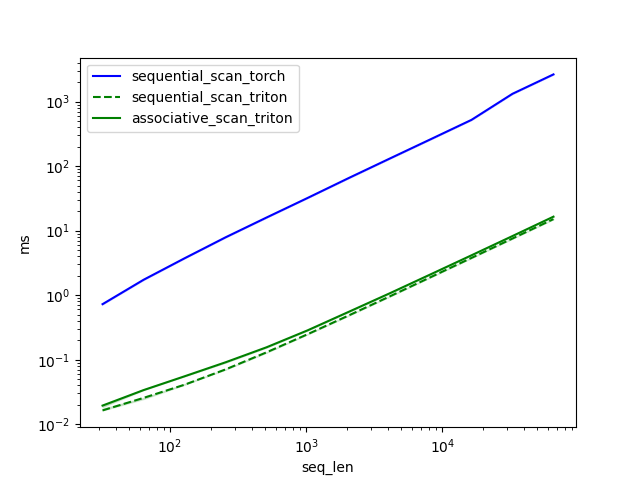
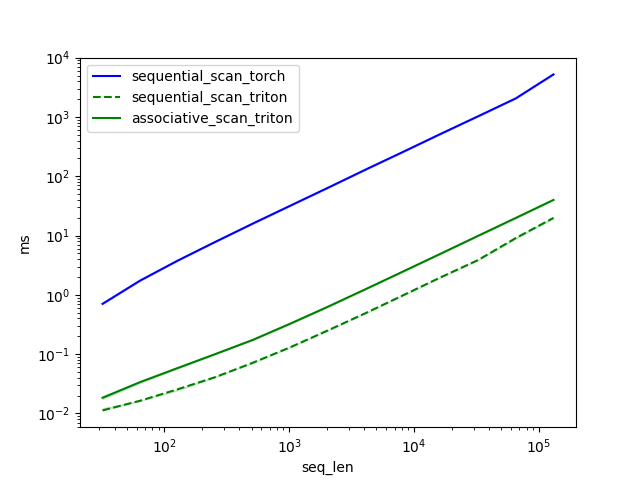
Update benchmarking results

diff --git a/linear_rnn/triton/sequential_rnn_scan.py b/linear_rnn/triton/sequential_rnn_scan.py
@@ -1,3 +1,4 @@
+import math
 import torch
 import triton
 import triton.language as tl
@@ -38,7 +39,7 @@ def _sequential_rnn_scan_fwd_kernel(
     ht_ptrs = ht_ptr + offsets * stride_h0_dim
     out_ptrs = out_ptr + offsets * stride_out_dim
 
-    h_t = tl.load(ht_ptrs).to(tl.float32)
+    h_t = tl.load(ht_ptrs).to(tl.float32)  # load to SRAM
     for t in range(seq_len):
         x_t = tl.load(x_ptrs).to(tl.float32)
         a_t = tl.load(a_ptrs).to(tl.float32)
@@ -49,7 +50,7 @@ def _sequential_rnn_scan_fwd_kernel(
             x_ptrs += stride_x_len
             a_ptrs += stride_a_len
 
-    tl.store(out_ptrs, h_t.to(out_ptr.dtype.element_ty))
+    tl.store(out_ptrs, h_t.to(out_ptr.dtype.element_ty))  # write back to HBM/DRAM
 
 
 @triton.jit
@@ -61,6 +62,7 @@ def sequential_rnn_scan(x: torch.Tensor, a: torch.Tensor, h0: torch.Tensor | Non
     BLOCK_SIZE, num_warps = 256, 16  # TODO: change later to autotune
 
     batch, seq_len, dim = x.shape
+    assert math.floor(math.log2(batch)) == math.ceil(math.log2(batch)), f"{batch=} must be a power of 2"
     assert dim % BLOCK_SIZE == 0, f"{dim=} is not a multiple of {BLOCK_SIZE=}"
     assert x.shape == a.shape
     assert h0 is None or h0.shape == (batch, dim)

diff --git a/linear_rnn/benchmarking/rnn_scan.py b/linear_rnn/benchmarking/rnn_scan.py
@@ -9,7 +9,7 @@ from linear_rnn.triton.sequential_rnn_scan import sequential_rnn_scan, rnn_scan_
     [
         triton.testing.Benchmark(
             x_names=["seq_len"],
-            x_vals=[2**i for i in range(5, 17, 1)],
+            x_vals=[int(2**i) for i in range(5, 18, 1)],
             x_log=True,
             y_log=True,
             line_arg="benchmark_fn",
@@ -18,13 +18,13 @@ from linear_rnn.triton.sequential_rnn_scan import sequential_rnn_scan, rnn_scan_
             styles=[("blue", "-"), ("green", "--"), ("green", "-")],
             ylabel="ms",
             plot_name="rnn_scan_performance",
-            args={"batch": 8, "dim": 2560},
+            args={"batch": 4, "dim": 5120},
         )
     ]
 )
 def benchmark(batch: int, seq_len: int, dim: int, benchmark_fn: str):
-    x = torch.randn(batch, seq_len, dim, device="cuda", dtype=torch.float32)
-    a = torch.randn(batch, seq_len, dim, device="cuda", dtype=torch.float32)
+    x = torch.randn(batch, seq_len, dim, device="cuda", dtype=torch.float16)
+    a = torch.randn(batch, seq_len, dim, device="cuda", dtype=torch.float16)
 
     quantiles = [0.5, 0.2, 0.8]
     if benchmark_fn == "rnn_scan_ref":

diff --git a/linear_rnn/triton/associative_rnn_scan.py b/linear_rnn/triton/associative_rnn_scan.py
@@ -68,6 +68,7 @@ def associative_rnn_scan(x: torch.Tensor, a: torch.Tensor) -> torch.Tensor:
     BLOCK_SIZE_LEN, BLOCK_SIZE_DIM, num_warps = 32, 256, 16  # TODO: change later to autotune
 
     batch, seq_len, dim = x.shape
+    assert math.floor(math.log2(batch)) == math.ceil(math.log2(batch)), f"{batch=} must be a power of 2"
     assert seq_len % BLOCK_SIZE_LEN == 0, f"{seq_len=} is not a multiple of {BLOCK_SIZE_LEN=}"
     assert dim % BLOCK_SIZE_DIM == 0, f"{dim=} is not a multiple of {BLOCK_SIZE_DIM=}"
     assert x.shape == a.shape

diff --git a/linear_rnn/triton/naive_associative_rnn_scan.py b/linear_rnn/triton/naive_associative_rnn_scan.py
@@ -1,3 +1,4 @@
+import math
 import torch
 import triton
 import triton.language as tl
@@ -58,6 +59,7 @@ def naive_associative_rnn_scan(x: torch.Tensor, a: torch.Tensor) -> torch.Tensor
     BLOCK_SIZE, num_warps = 256, 16  # TODO: change later to autotune
 
     batch, seq_len, dim = x.shape
+    assert math.floor(math.log2(batch)) == math.ceil(math.log2(batch)), f"{batch=} must be a power of 2"
     assert dim % BLOCK_SIZE == 0, f"{dim=} is not a multiple of {BLOCK_SIZE=}"
     assert x.shape == a.shape
 

diff --git a/README.md b/README.md
@@ -31,5 +31,7 @@ To benchmark the RNN scan, run:
 cd $HOME/linear-rnn; python linear_rnn/benchmarking/rnn_scan.py
 ```
 
-The RNN scan benchmarking results (from running on an A6000 GPU) for sequences of length $32$ to $131$K are recorded in
-`linear_rnn/benchmarking/results/rnn_scan`.
+The RNN scan benchmarking results (from running on an A6000 GPU) for sequences of length $32$ to $131$K (batch size $4$,
+dim: $5,120$) are recorded in `linear_rnn/benchmarking/results/rnn_scan`:
+
+![rnn_scan_benchmark.png](linear_rnn/benchmarking/results/rnn_scan/rnn_scan_performance.png)
